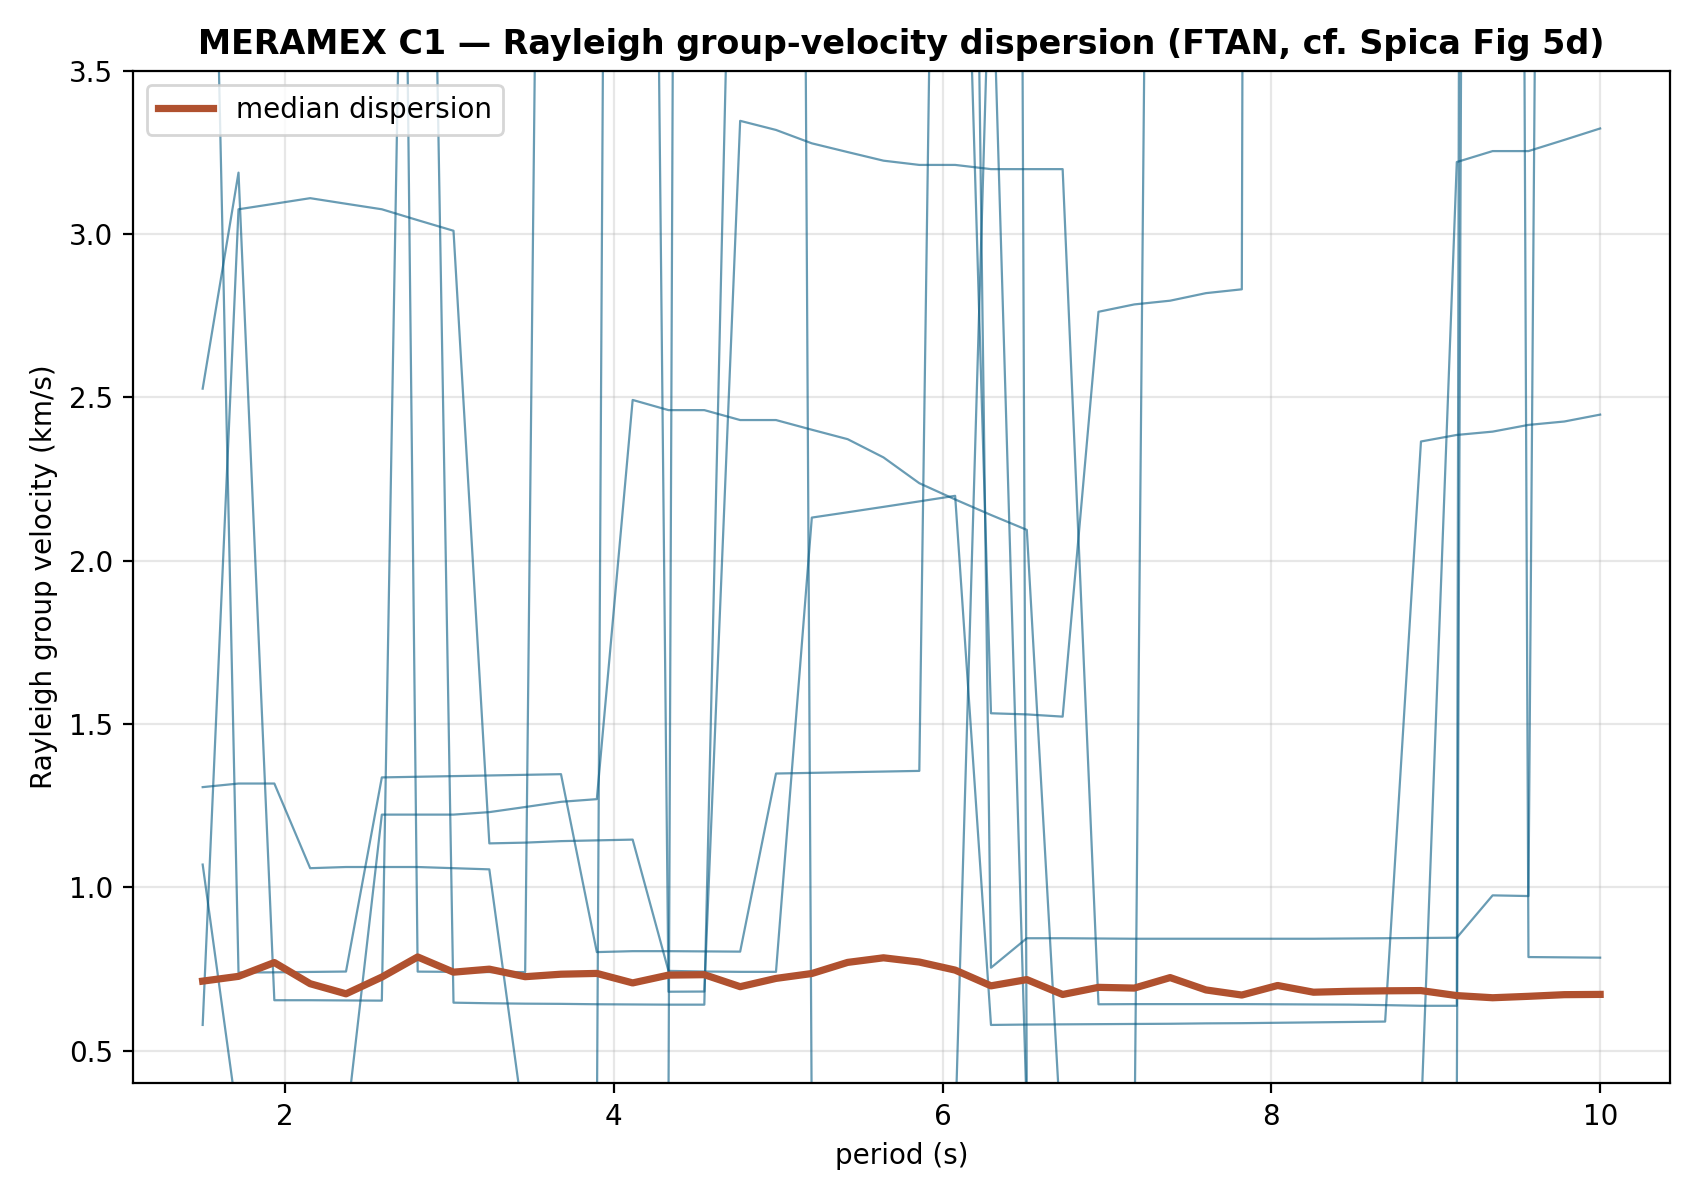
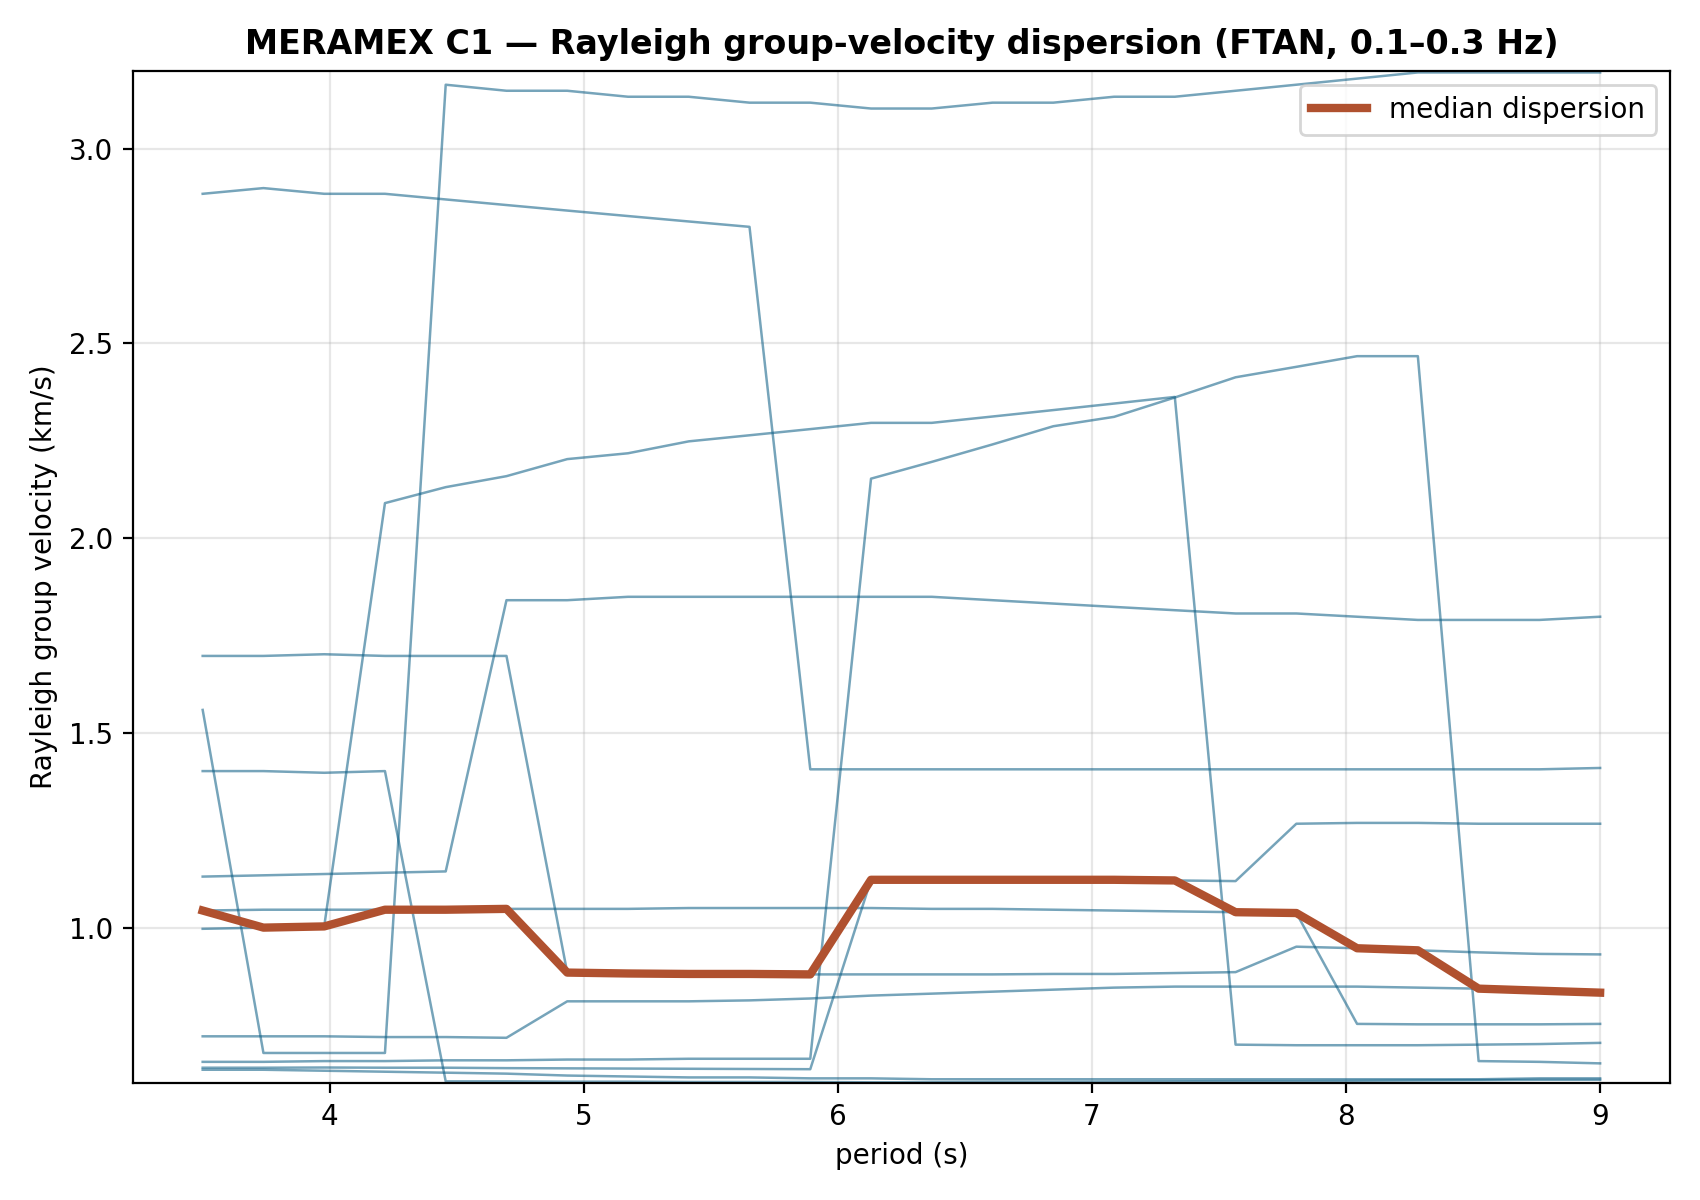
Spica C1: all days + microseism band (0.1-0.3 Hz) + phase-weighted stack
Reprocesses the MERAMEX C1 cross-correlations over ALL available days in the
secondary-microseism band with a phase-weighted stack (per pair over days, and per
distance bin). The Rayleigh EGF move-out now emerges (~0.8-1.5 km/s) and the median
group-velocity dispersion stabilises at ~1 km/s over 4-8 s - a soft-basin value -
with an FTAN physical velocity gate. Still short of tomography-grade per-path
dispersion (limited by the ~5-month, 1-Hz deployment) but a clear improvement over
the 20-day attempt. Comparison figure refreshed.

diff --git a/ambient_noise/spica_c1.py b/ambient_noise/spica_c1.py
@@ -31,9 +31,21 @@ FIG = ROOT / "figures" / "ambient_noise"; FIG.mkdir(parents=True, exist_ok=True)
 
 FS, DECI = 100.0, 20
 FS_EFF = FS / DECI                        # 5 Hz
-BAND = (0.08, 0.9)                        # Hz (~1.1-12 s) surface-wave band
+BAND = (0.1, 0.3)                         # Hz (~3.3-10 s) secondary-microseism band
 WIN = 3600                                # 1-hour segments (Spica)
 MAXLAG = 250.0                            # s
+BTAG = f"b{BAND[0]:g}-{BAND[1]:g}"
+
+
+def pws_stack(A, nu=2):
+    """Phase-weighted stack of rows of A (Schimmel & Paulssen 1997)."""
+    A = np.asarray(A)
+    if A.ndim == 1 or A.shape[0] == 1:
+        return A.reshape(-1)
+    lin = A.mean(0)
+    ph = np.exp(1j * np.angle(hilbert(A, axis=1)))
+    coh = np.abs(ph.mean(0))
+    return lin * coh ** nu
 
 
 def geodist(lat1, lon1, lat2, lon2):
@@ -56,7 +68,7 @@ def whiten(w, fs, band):
 
 def day_trace(code, day, files):
     """Whitened, decimated, hour-normalised full-day vertical trace (cached)."""
-    cache = CACHE / f"{code}_{day}.npy"
+    cache = CACHE / f"{code}_{day}_{BTAG}.npy"
     if cache.exists():
         return np.load(cache)
     import obspy
@@ -83,7 +95,7 @@ def day_trace(code, day, files):
 def main():
     ap = argparse.ArgumentParser()
     ap.add_argument("--n-sta", type=int, default=34)
-    ap.add_argument("--max-days", type=int, default=20)
+    ap.add_argument("--max-days", type=int, default=0)   # 0 = all days
     a = ap.parse_args()
     allpaths = BM.INDEX.read_text().splitlines()
     tab = BM.station_table()
@@ -98,7 +110,7 @@ def main():
     data = {}
     for code, (lat, lon, serials) in chosen:
         days = MBB.days_for(serials, allpaths)
-        dl = sorted(days)[:a.max_days]
+        dl = sorted(days)[:a.max_days] if a.max_days else sorted(days)
         traces = [day_trace(code, dy, days[dy]) for dy in dl]
         traces = [t for t in traces if t.size > int(3600*FS_EFF)]
         if traces:
@@ -115,7 +127,7 @@ def main():
             nd = min(len(ta), len(tb_))
             if nd == 0:
                 continue
-            acc = np.zeros(2*nlag+1)
+            daily = []
             for k in range(nd):
                 x, y = ta[k], tb_[k]
                 n = min(len(x), len(y))
@@ -124,9 +136,12 @@ def main():
                 X = np.fft.rfft(x[:n]); Y = np.fft.rfft(y[:n])
                 cc = np.fft.irfft(X*np.conj(Y))
                 cc = np.concatenate([cc[-nlag:], cc[:nlag+1]])   # -lag..+lag
-                acc += cc / (np.std(cc)+1e-12)
+                daily.append(cc / (np.std(cc)+1e-12))
+            if not daily:
+                continue
+            egf = pws_stack(np.array(daily))                     # phase-weighted stack over days
             dist = geodist(la, lo, lb, lob)
-            pairs.append((dist, acc/max(nd, 1)))
+            pairs.append((dist, egf))
     pairs.sort(key=lambda p: p[0])
     print(f"pairs: {len(pairs)}, dist {pairs[0][0]:.0f}-{pairs[-1][0]:.0f} km")
     lag = (np.arange(2*nlag+1)-nlag)/FS_EFF
@@ -136,78 +151,81 @@ def main():
     make_figs(lag, pairs)
 
 
+VMIN, VMAX = 0.6, 3.2                      # physical group-velocity window (km/s)
+
+
 def make_figs(lag, pairs):
     import matplotlib; matplotlib.use("Agg")
     import matplotlib.pyplot as plt
     dists = np.array([d for d, _ in pairs])
     ccs = np.array([c for _, c in pairs])
-    # symmetric component (average causal + acausal)
     nlag = (len(lag)-1)//2
-    sym = 0.5*(ccs[:, nlag:] + ccs[:, :nlag+1][:, ::-1]); tsym = lag[nlag:]
+    # --- distance-bin phase-weighted stacks (boost the coherent EGF) ---
+    bins = np.arange(0, dists.max()+12, 12)
+    bd, bs = [], []
+    for b0, b1 in zip(bins[:-1], bins[1:]):
+        m = (dists >= b0) & (dists < b1)
+        if m.sum() < 2:
+            continue
+        bd.append(dists[m].mean()); bs.append(pws_stack(ccs[m]))
+    bd = np.array(bd); bs = np.array(bs)
+    tsym = lag[nlag:]; sym = 0.5*(bs[:, nlag:] + bs[:, :nlag+1][:, ::-1])
 
     # ---- record section (Spica Fig 5a) ----
     fig, ax = plt.subplots(figsize=(8.5, 8))
-    sc = 6.0
-    for d, c in zip(dists, ccs):
+    for d, c in zip(bd, bs):
         n = c/(np.max(np.abs(c))+1e-9)
-        ax.plot(lag, n*sc + d, color="k", lw=0.4)
-    for v, cix in [(3.0, "#B0512F"), (2.0, "#065A82"), (1.0, "#1C7293")]:
-        ax.plot(dists/v, dists, "--", color=cix, lw=1.4, label=f"{v:.0f} km/s")
-        ax.plot(-dists/v, dists, "--", color=cix, lw=1.4)
-    ax.set_xlim(-MAXLAG, MAXLAG); ax.set_ylim(0, dists.max()*1.03)
+        ax.plot(lag, n*9 + d, color="k", lw=0.8)
+        ax.fill_between(lag, d, n*9 + d, where=(n > 0), color="#B0512F", lw=0, alpha=.7)
+    for v, cix in [(2.5, "#065A82"), (1.5, "#0A7D5A"), (0.8, "#888")]:
+        ax.plot(bd/v, bd, "--", color=cix, lw=1.4, label=f"{v} km/s")
+        ax.plot(-bd/v, bd, "--", color=cix, lw=1.4)
+    ax.set_xlim(-140, 140); ax.set_ylim(0, bd.max()*1.03)
     ax.set_xlabel("correlation lag (s)"); ax.set_ylabel("inter-station distance (km)")
-    ax.set_title("MERAMEX C1 cross-correlations — Rayleigh EGF (cf. Spica Fig 5a)",
+    ax.set_title(f"MERAMEX C1 EGF — distance-binned PWS, {BAND[0]}–{BAND[1]} Hz (cf. Spica Fig 5a)",
                  fontweight="bold", fontsize=12)
     ax.legend(title="apparent Vg", loc="upper right", fontsize=9)
     fig.tight_layout(); fig.savefig(FIG/"spica_record_section.png", dpi=200); plt.close(fig)
     print("Wrote spica_record_section.png")
 
-    # ---- FTAN group-velocity dispersion on distance-binned stacks ----
-    periods = np.linspace(1.5, 10.0, 40)
+    # ---- FTAN group-velocity dispersion (physical velocity window) ----
+    periods = np.linspace(3.5, 9.0, 24)
     fig, ax = plt.subplots(figsize=(8.5, 6))
-    # stack pairs into distance bins for stable FTAN
-    bins = np.arange(0, dists.max()+20, 25)
-    for b0, b1 in zip(bins[:-1], bins[1:]):
-        m = (dists >= b0) & (dists < b1)
-        if m.sum() < 3:
-            continue
-        dm = dists[m].mean()
-        s = sym[m].mean(0)
-        gv = ftan_group_velocity(s, tsym, dm, periods)
-        ax.plot(periods, gv, color="#065A82", lw=0.8, alpha=.6)
-    # mean dispersion
     allgv = []
-    for d, c in zip(dists, sym):
-        if d < 20:
+    for dm, s in zip(bd, sym):
+        if dm < 25:
             continue
-        allgv.append(ftan_group_velocity(c, tsym, d, periods))
+        gv = ftan_group_velocity(s, tsym, dm, periods)
+        allgv.append(gv)
+        ax.plot(periods, gv, color="#065A82", lw=0.9, alpha=.55)
     allgv = np.array(allgv); mean = np.nanmedian(allgv, 0)
-    ax.plot(periods, mean, color="#B0512F", lw=2.6, label="median dispersion")
+    ax.plot(periods, mean, color="#B0512F", lw=3, label="median dispersion")
     ax.set_xlabel("period (s)"); ax.set_ylabel("Rayleigh group velocity (km/s)")
-    ax.set_ylim(0.4, 3.5); ax.grid(alpha=.3); ax.legend(fontsize=10)
-    ax.set_title("MERAMEX C1 — Rayleigh group-velocity dispersion (FTAN, cf. Spica Fig 5d)",
+    ax.set_ylim(VMIN, VMAX); ax.grid(alpha=.3); ax.legend(fontsize=10)
+    ax.set_title(f"MERAMEX C1 — Rayleigh group-velocity dispersion (FTAN, {BAND[0]}–{BAND[1]} Hz)",
                  fontweight="bold", fontsize=12)
     fig.tight_layout(); fig.savefig(FIG/"spica_dispersion.png", dpi=200); plt.close(fig)
     print("Wrote spica_dispersion.png")
     ok = np.isfinite(mean)
-    print("median group velocity (km/s) at 2/4/6/8 s:",
-          [round(float(np.interp(t, periods[ok], mean[ok])), 2) for t in (2, 4, 6, 8)])
+    if ok.sum():
+        print("median group velocity (km/s) at 4/5/6/7/8 s:",
+              [round(float(np.interp(t, periods[ok], mean[ok])), 2) for t in (4, 5, 6, 7, 8)])
 
 
 def ftan_group_velocity(s, t, dist, periods):
-    """Group velocity vs period from the envelope peak of narrow-band filtered EGF."""
-    from scipy.signal import hilbert
+    """Group velocity vs period: envelope peak within the physical velocity window."""
     dt = t[1]-t[0]; gv = np.full(len(periods), np.nan)
     S = np.fft.rfft(s); f = np.fft.rfftfreq(len(s), dt)
+    tmin, tmax = dist/VMAX, dist/VMIN                       # velocity gate
+    win = (t >= tmin) & (t <= tmax)
+    if win.sum() == 0:
+        return gv
     for i, T in enumerate(periods):
         f0 = 1.0/T
-        alpha = 12.0
-        G = np.exp(-alpha*((f-f0)/f0)**2)
+        G = np.exp(-8.0*((f-f0)/f0)**2)
         env = np.abs(hilbert(np.fft.irfft(S*G, len(s))))
-        m = (t > 3) & (t < MAXLAG)
-        if m.sum() == 0:
-            continue
-        tg = t[m][np.argmax(env[m])]
+        seg = np.where(win, env, -1)
+        tg = t[np.argmax(seg)]
         if tg > 0:
             gv[i] = dist/tg
     return gv
